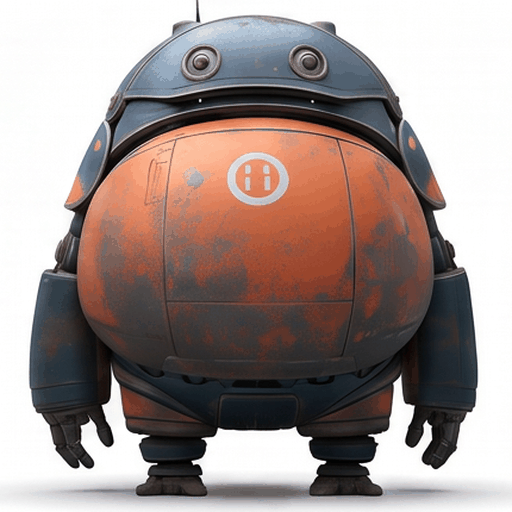
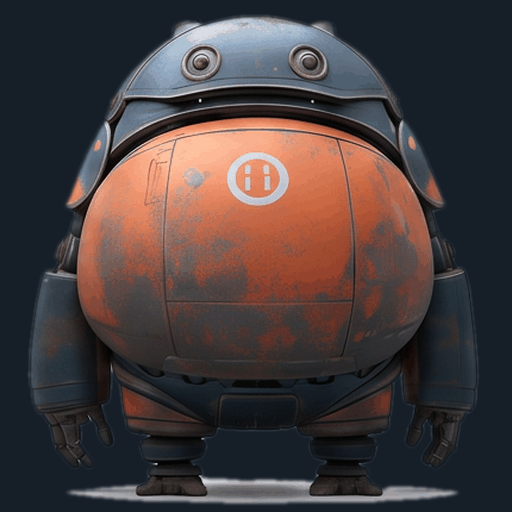
style(portraits): the robots on a dark ground, like everyone else
The crops kept the model sheets' light grey, bright squares in a dark box
beside twenty dark portraits. The background is filled in from the corners
(so Voxxy's white earpieces, which touch it, are left alone), the edge
pulled in a little against a halo, and filled with #161e28.

diff --git a/src/portraits/README.md b/src/portraits/README.md
@@ -71,7 +71,9 @@ sheets in `references/robots/`, taken at 512 × 512 and brought to 256
 colours as `tools/portraits.py` does. That is the author's call. The sheets
 themselves stay git-ignored, as the note in `.gitignore` says, and these
 three crops are the only part of them in the repository: Voxxy's front
-view, Droid's close-up, and Biggy's front view.
+view, Droid's close-up, and Biggy's front view. The sheets' light grey
+behind them is filled in from the corners with the dark #161e28, so they
+sit in the dark box like the rest.
 
 | Who | Where | File |
 |---|---|---|
